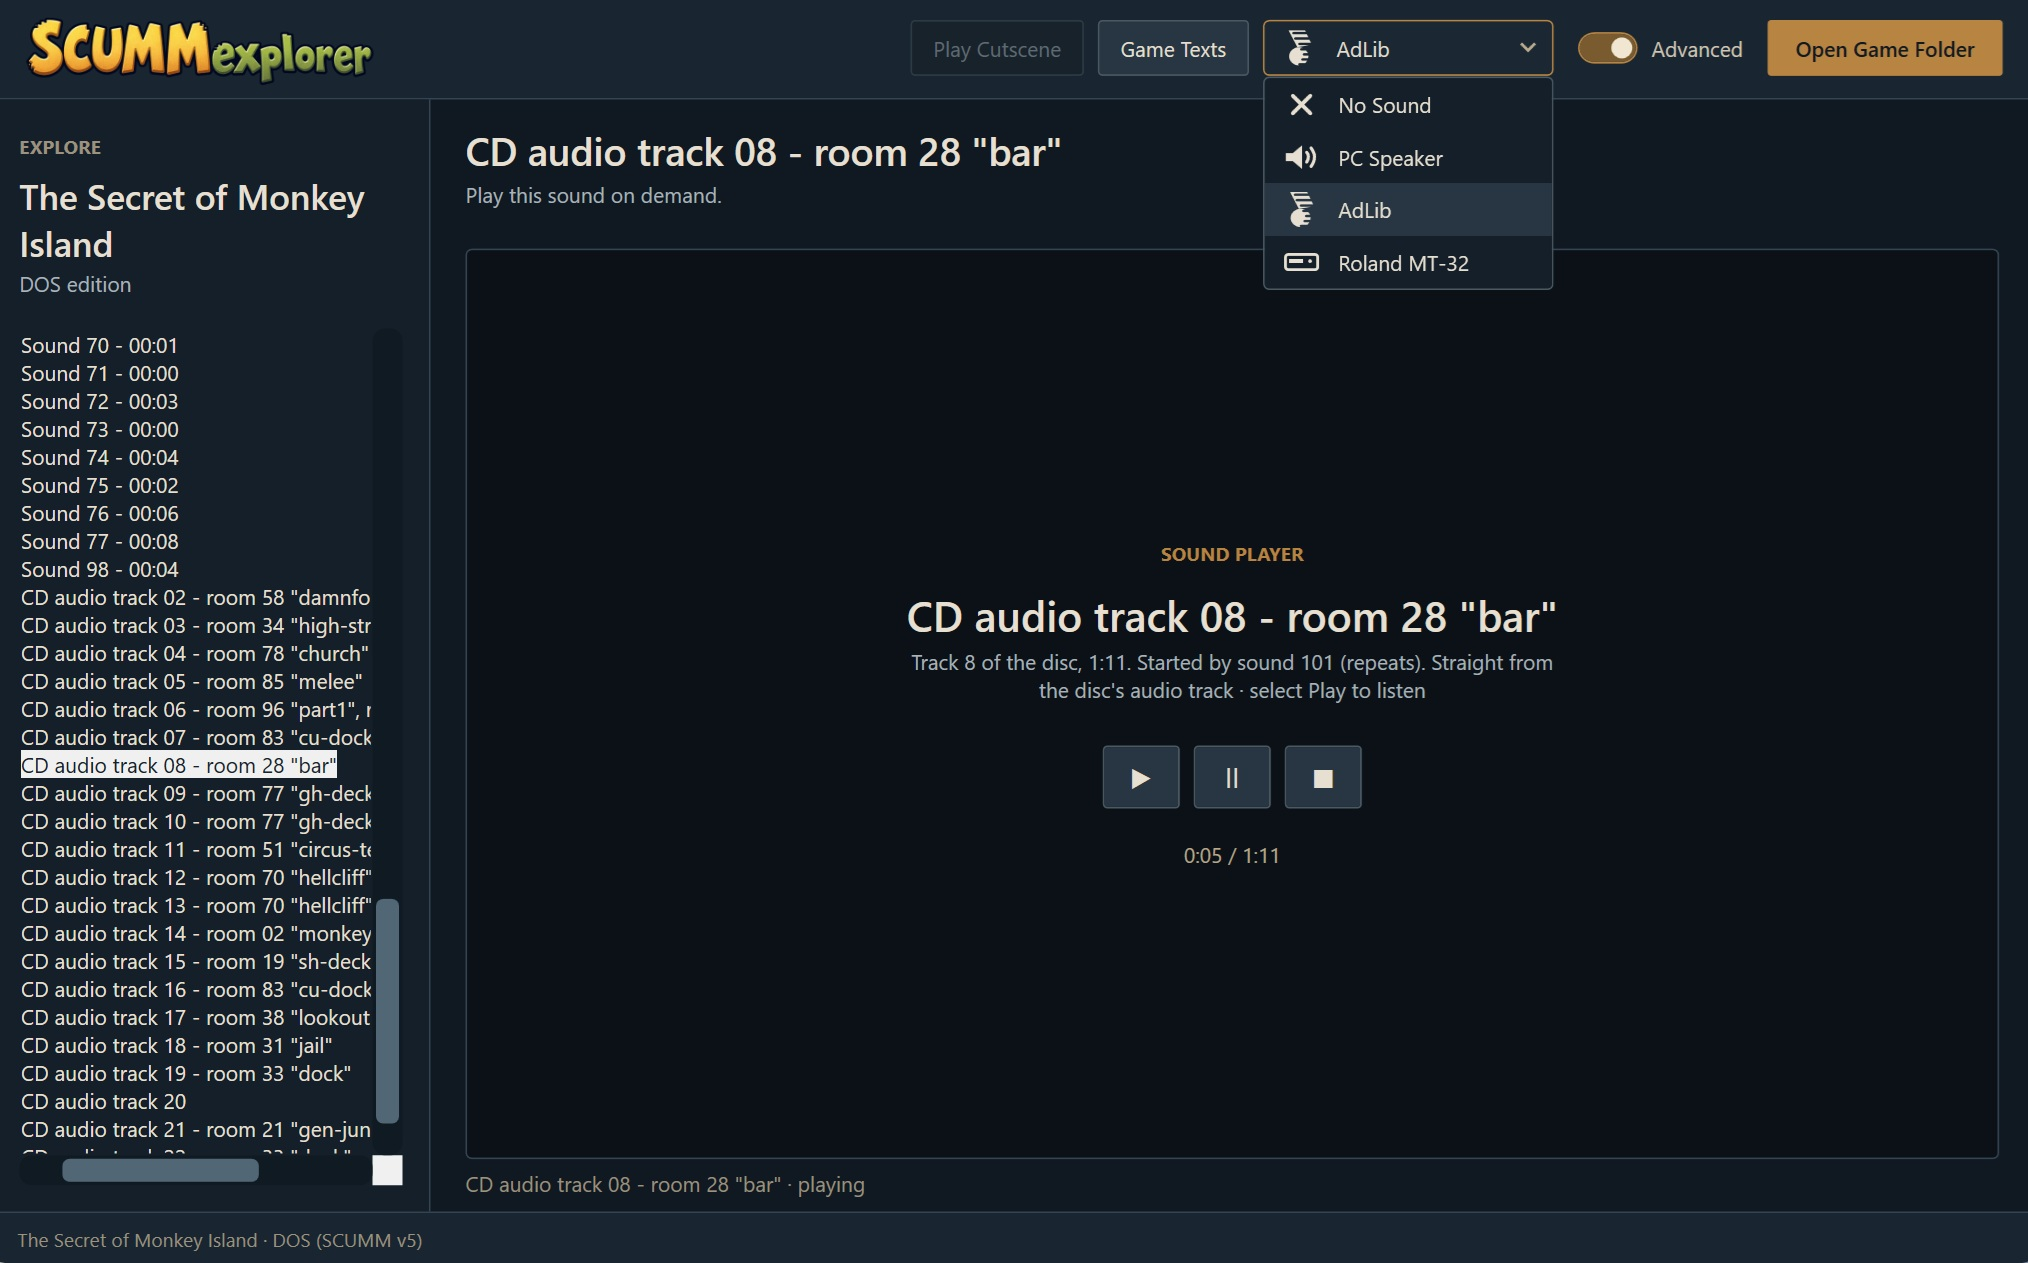
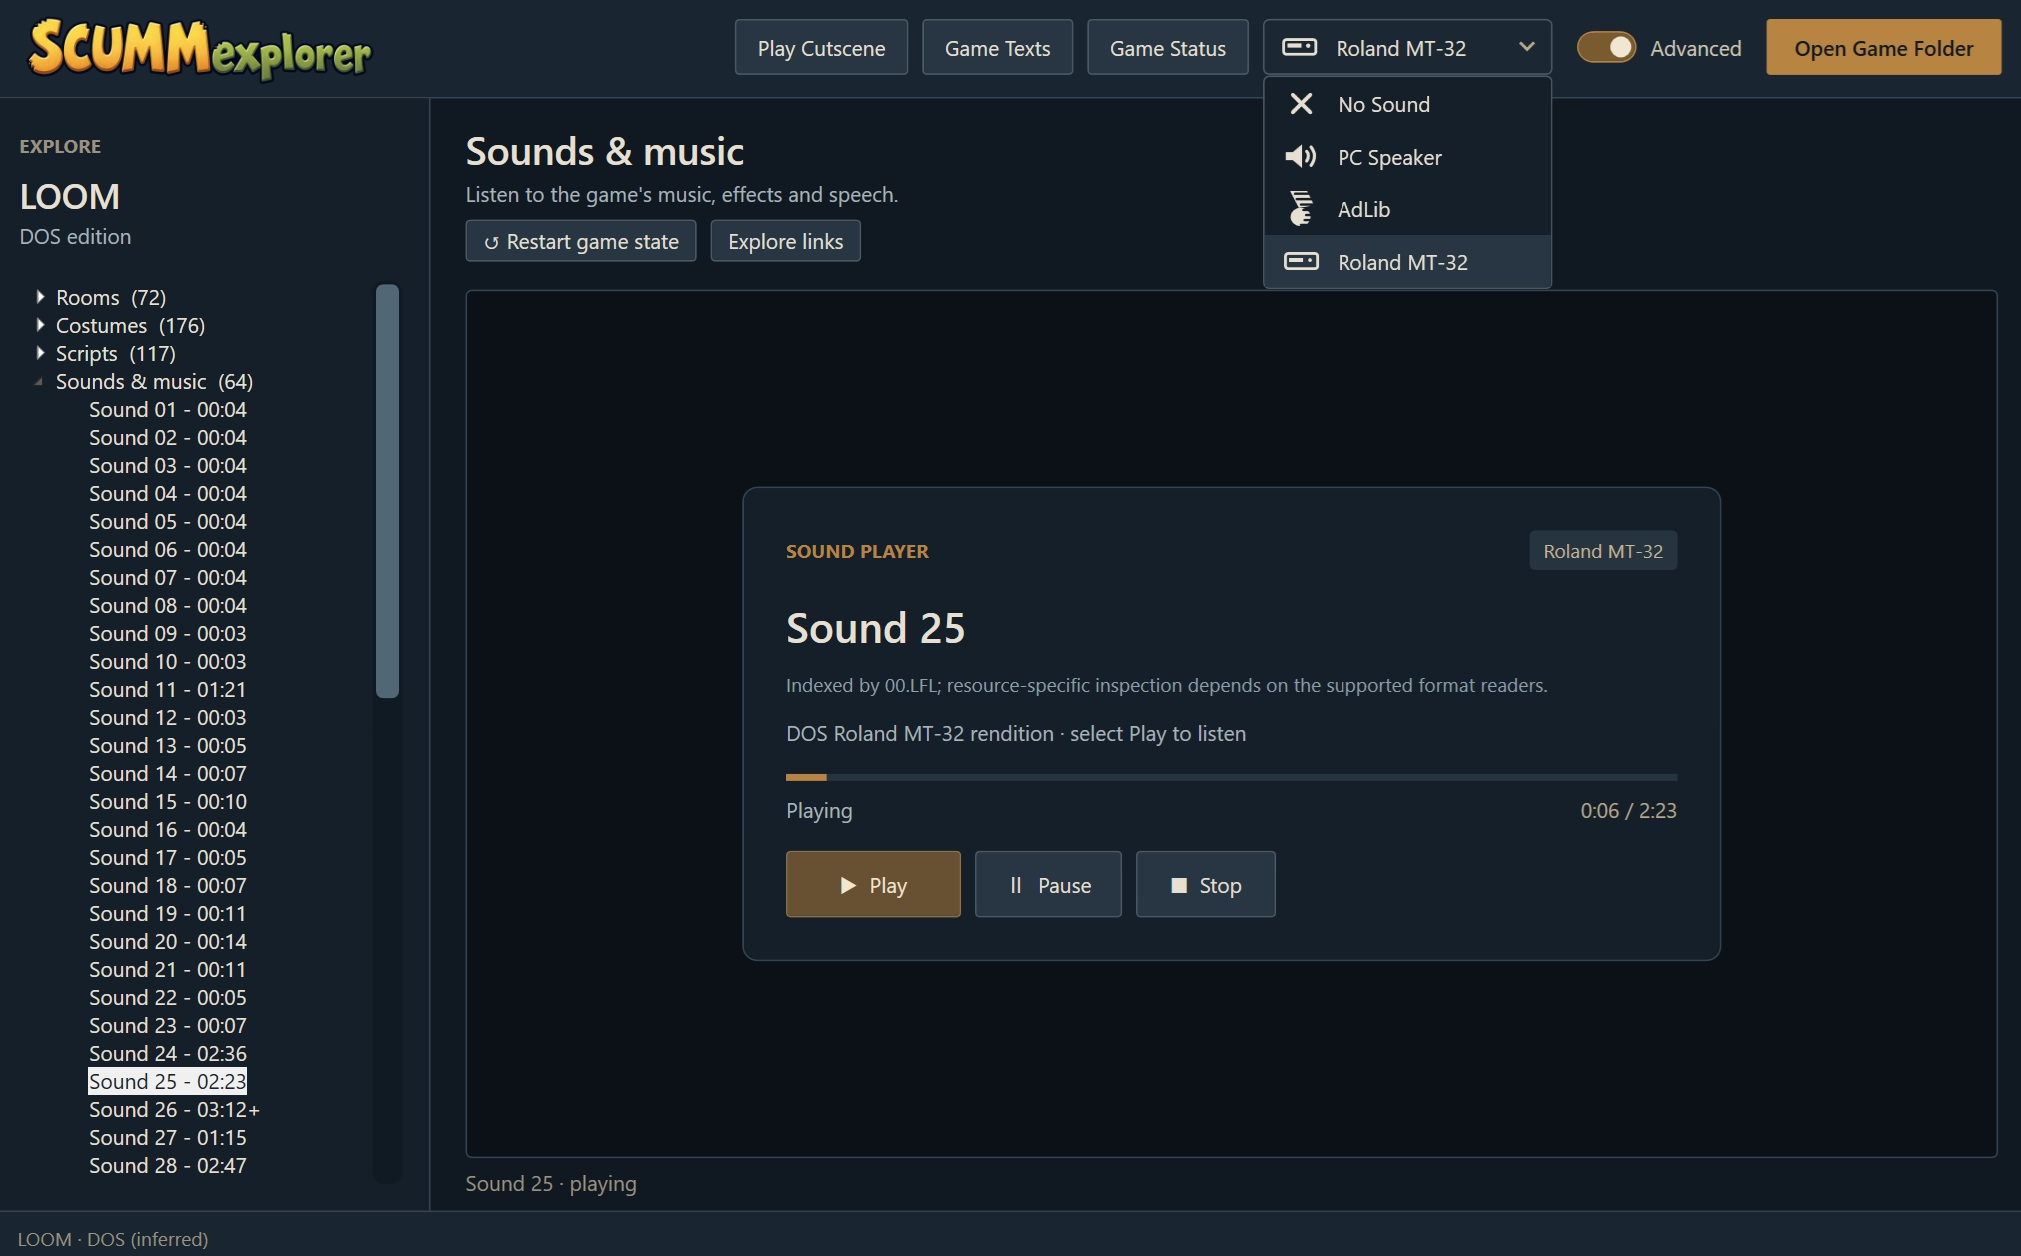
Wrap long resource tree labels in the sidebar; README and Audio screenshot tweaks

diff --git a/src/SCUMMexplorer.App/MainWindow.xaml b/src/SCUMMexplorer.App/MainWindow.xaml
@@ -142,6 +142,14 @@
         </Style>
         <Style TargetType="TreeViewItem">
             <Setter Property="Foreground" Value="#E7E0D2"/>
+            <!-- Long labels (CD audio tracks with room names) wrap in the sidebar instead of being cut off. -->
+            <Setter Property="HeaderTemplate">
+                <Setter.Value>
+                    <DataTemplate>
+                        <TextBlock Text="{Binding}" TextWrapping="Wrap"/>
+                    </DataTemplate>
+                </Setter.Value>
+            </Setter>
             <Style.Triggers>
                 <Trigger Property="IsSelected" Value="True">
                     <Setter Property="Foreground" Value="#15212B"/>
@@ -391,7 +399,7 @@
                     <ScrollViewer x:Name="CostumeCardScroll" Grid.Row="1" Visibility="Collapsed" VerticalScrollBarVisibility="Auto" HorizontalScrollBarVisibility="Disabled" Margin="-5,0,-3,8">
                         <WrapPanel x:Name="CostumeCardList"/>
                     </ScrollViewer>
-                    <TreeView x:Name="ResourceTree" Grid.Row="1" Visibility="Collapsed" Background="Transparent" BorderThickness="0" Foreground="#E7E0D2" SelectedItemChanged="ResourceTree_SelectedItemChanged" TreeViewItem.Expanded="ResourceTree_Expanded"/>
+                    <TreeView x:Name="ResourceTree" Grid.Row="1" Visibility="Collapsed" Background="Transparent" BorderThickness="0" Foreground="#E7E0D2" ScrollViewer.HorizontalScrollBarVisibility="Disabled" SelectedItemChanged="ResourceTree_SelectedItemChanged" TreeViewItem.Expanded="ResourceTree_Expanded"/>
                 </Grid>
             </Border>
             <Grid x:Name="ContentPanel" Grid.Column="1" Margin="20,14,20,8">

diff --git a/README.md b/README.md
@@ -147,7 +147,7 @@ Switch **Advanced** on, and the explorer opens up. Everything here reads from th
 
 ## Music and sound
 
-Browse the available music and effects in Advanced mode and play them on demand. Depending on the game and edition, the explorer supports PC Speaker, **PCjr / Tandy**, AdLib, Roland MT-32, sampled effects and CD audio. Choose **PCjr / Tandy** in the sound menu for Maniac Mansion and Zak McKracken.
+Browse the available music and effects in Advanced mode and play them on demand. Depending on the game and edition, the explorer supports PC Speaker, PCjr / Tandy, AdLib, Roland MT-32, sampled effects and CD audio. You can choose **PCjr / Tandy** in the sound menu for Maniac Mansion and Zak McKracken.
 
 <p align="center">
   <a href="screenshots/Audio.jpg"><img src="screenshots/Audio.jpg" alt="The Secret of Monkey Island CD audio player with the sound-device menu open, listing PC Speaker, AdLib and Roland MT-32" width="1000"></a>
